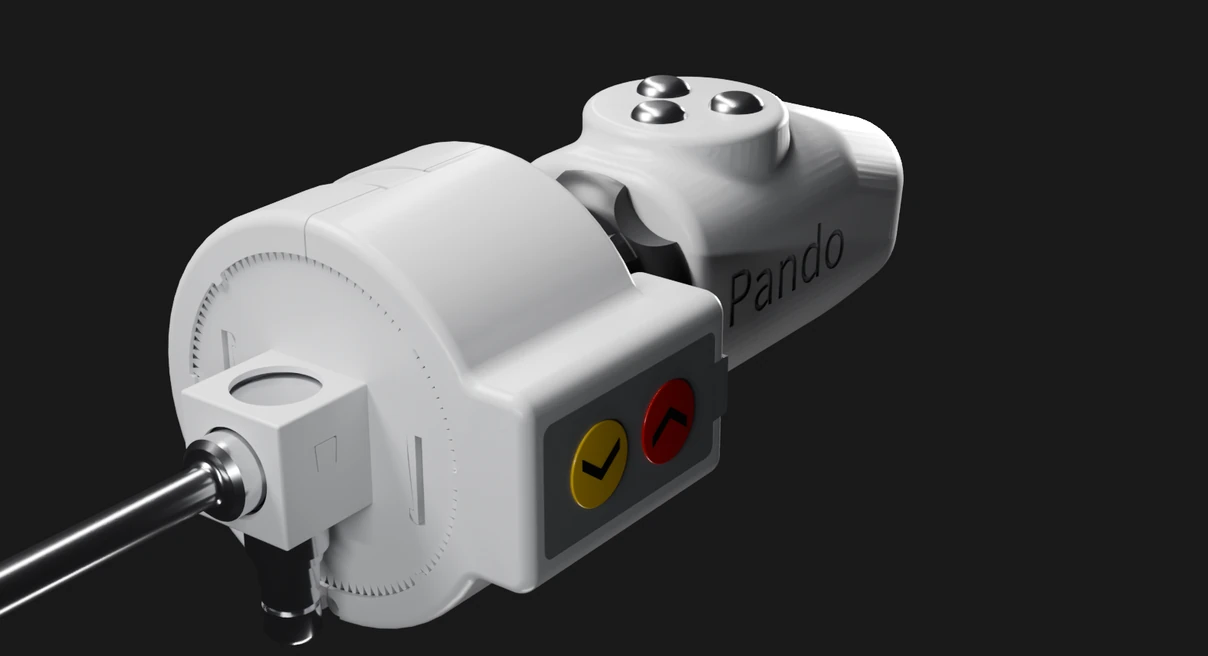
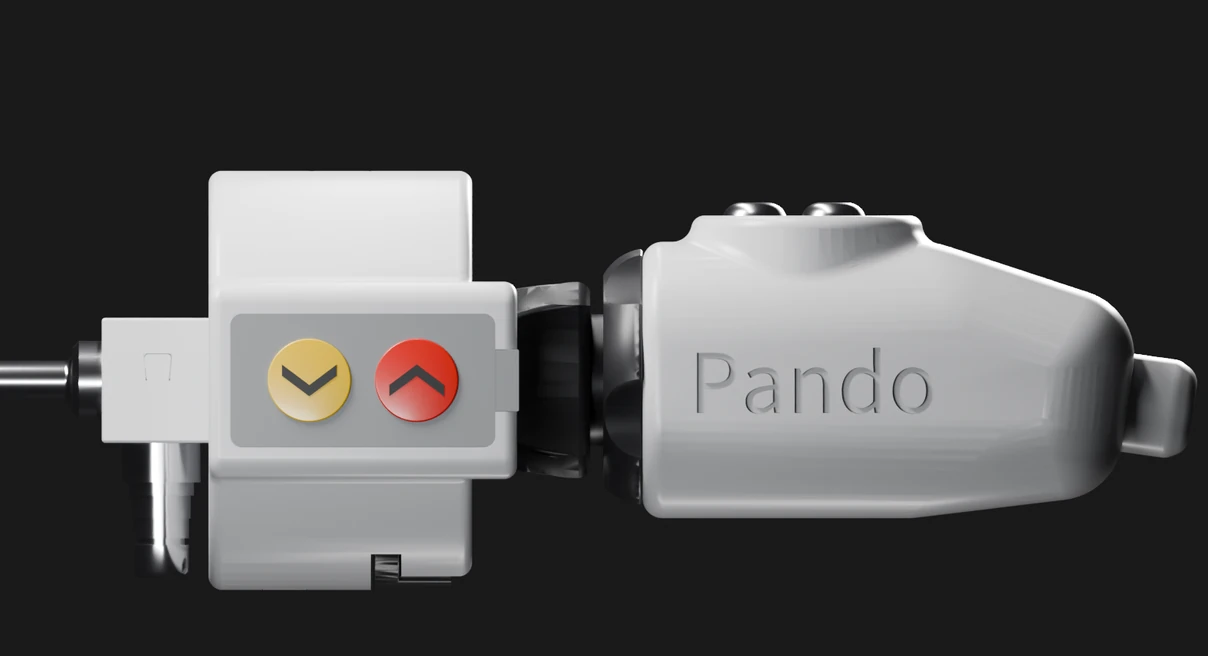
Use the new revB hero render and a swiping 5-image slideshow
Matches the Figma edits: the LapRotator hero (and Hover Drift) now uses
the background-removed revB hero render, placed like Figma (1241x553 at
343,393, no tilt); phones show it above the heading. The Features
slideshow is cut to the five renders and crops chosen in Figma, and now
slides left to the next image every 3.1 s (2.5 s hold, 600ms slide),
looping through a copy of the first image so it never slides back.

diff --git a/css/style.css b/css/style.css
@@ -388,8 +388,9 @@ p { font-weight: 400; }
    starts the float (js/main.js, Figma "LapRotator Hover Drift") */
 /* Full-size layer so the render scales with the whole section width (cqw), not the padded content */
 .lr-art { position: absolute; inset: 0; z-index: 0; pointer-events: none; container-type: inline-size; }
-.lr-float { position: absolute; left: -21.79cqw; bottom: -15.31cqw; width: 124.93cqw; z-index: 0; pointer-events: none; will-change: translate; }
-.lr-float img { display: block; width: 100%; height: auto; rotate: 5.87deg; filter: drop-shadow(5px 17px 19px rgba(0, 0, 0, 0.15)); }
+/* Figma: 1241x553 at x 343, y 393 in the 1512x875 hero, so it runs 71px past the bottom */
+.lr-float { position: absolute; left: 22.69cqw; bottom: -4.7cqw; width: 82.08cqw; z-index: 0; pointer-events: none; will-change: translate; }
+.lr-float img { display: block; width: 100%; height: auto; }
 .lr-hero-text { position: relative; z-index: 1; max-width: 760px; display: flex; flex-direction: column; gap: 20px; align-items: flex-start; }
 .lr-hero h1 { font-size: 80px; line-height: normal; }
 .lr-hero p { font-size: 22px; line-height: 1.5; color: rgba(var(--on-dark-rgb), 0.7); }
@@ -438,14 +439,12 @@ p { font-weight: 400; }
 .features li { display: flex; align-items: center; gap: 16px; font-size: 20px; line-height: 1.45; color: rgba(var(--text-rgb), 0.8); }
 .check { flex: none; width: 40px; height: 40px; border-radius: 50%; background: var(--dark); display: flex; align-items: center; justify-content: center; }
 .check img { display: block; }
-/* Render slideshow (Figma "LapRotator Render Slideshow"): each image shows ~4 s, then dissolves into the next.
-   It takes the height of the feature list beside it. */
+/* Render slideshow (Figma "LapRotator Render Slideshow"): each image shows 2.5 s, then the track
+   slides left to the next (600ms). It takes the height of the feature list beside it. */
 .lr-slides { position: relative; min-height: 0; border-radius: 5px; overflow: hidden; background: #111; }
-.lr-slides img {
-  position: absolute; inset: 0; width: 100%; height: 100%; object-fit: cover;
-  opacity: 0; transition: opacity 800ms ease-in-out;
-}
-.lr-slides img.is-on { opacity: 1; }
+.lr-slides-track { position: absolute; inset: 0; display: flex; transition: transform 600ms ease-in-out; }
+.lr-slides-track.no-anim { transition: none; }
+.lr-slides img { flex: 0 0 100%; width: 100%; height: 100%; object-fit: cover; }
 /* Specifications: compatibility table (Figma "Spec table") */
 .spec-head { font-size: 24px; font-weight: 500; color: var(--accent); margin-bottom: 32px; }
 .spec-intro { font-size: 18px; font-weight: 400; color: rgba(var(--text-rgb), 0.7); margin-bottom: 32px; }
@@ -808,6 +807,8 @@ input::placeholder, textarea::placeholder { color: rgba(46, 49, 53, 0.4); }
   .proof { flex-direction: column; gap: 24px; margin-top: 56px; }
   .grove h2, .story h2, .team-cta h2 { font-size: 38px; }
   .lr-hero { height: auto; min-height: 100svh; padding: 100px var(--pad) 48px; align-items: flex-end; }
+  /* Phones: the render sits larger in the space above the heading, scope trailing off the left */
+  .lr-float { left: -18cqw; top: 104px; bottom: auto; width: 115cqw; }
   .lr-hero h1, .ent h1 { font-size: 52px; }
   .lr-hero p { font-size: 18px; }
   .overview { padding: 80px var(--pad); }

diff --git a/laprotator.html b/laprotator.html
@@ -57,7 +57,7 @@
 <main id="main">
 
 <section class="lr-hero">
-  <div class="lr-art"><div class="lr-float"><img src="assets/img/laprotator-device.webp" alt="LapRotator attached to a laparoscope" width="1889" height="832"></div></div>
+  <div class="lr-art"><div class="lr-float"><img src="assets/img/laprotator-hero-render.webp" alt="LapRotator attached to a laparoscope" width="1920" height="856"></div></div>
   <div class="lr-hero-text">
     <h1>LapRotator</h1>
     <p>One-Handed Laparoscope Rotation: an attachment for laparoscopes that gives surgeons intuitive, single-handed control.</p>
@@ -99,12 +99,13 @@
         <li><span class="check"><img src="assets/icons/icon-check.svg" alt="" width="16" height="16"></span>Designed to help reduce surgeon fatigue during procedures</li>
       </ul>
       <div class="lr-slides" role="group" aria-label="LapRotator renders, changing every few seconds">
-        <img src="assets/img/laprotator-render-1.webp" alt="LapRotator on a laparoscope, three-quarter view with the camera buttons on top" width="1208" height="656" loading="lazy" class="is-on">
-        <img src="assets/img/laprotator-render-2.webp" alt="LapRotator from the front, showing the drum and the yellow and red rotation keys" width="1208" height="656" loading="lazy">
-        <img src="assets/img/laprotator-render-3.webp" alt="LapRotator from above, showing the three camera buttons" width="1208" height="656" loading="lazy">
-        <img src="assets/img/laprotator-render-4.webp" alt="LapRotator in side profile, with the rotation keys and the Pando logo" width="1208" height="656" loading="lazy">
-        <img src="assets/img/laprotator-render-5.webp" alt="LapRotator from below, looking up at the rotation keys" width="1208" height="656" loading="lazy">
-        <img src="assets/img/laprotator-render-6.webp" alt="LapRotator from the rear, showing the camera handle" width="1208" height="656" loading="lazy">
+        <div class="lr-slides-track">
+          <img src="assets/img/laprotator-render-1.webp" alt="LapRotator on a laparoscope, three-quarter view with the camera buttons on top" width="1208" height="656" decoding="async">
+          <img src="assets/img/laprotator-render-2.webp" alt="LapRotator in side profile, with the rotation keys and the Pando logo" width="1208" height="656" decoding="async">
+          <img src="assets/img/laprotator-render-3.webp" alt="LapRotator from above, showing the three camera buttons" width="1208" height="656" decoding="async">
+          <img src="assets/img/laprotator-render-4.webp" alt="LapRotator from below, looking up at the rotation keys" width="1208" height="656" decoding="async">
+          <img src="assets/img/laprotator-render-5.webp" alt="LapRotator from the rear, showing the camera handle" width="1208" height="656" decoding="async">
+        </div>
       </div>
     </div>
   </div>

diff --git a/js/main.js b/js/main.js
@@ -205,20 +205,34 @@
   });
 
   /* ---------- LapRotator render slideshow ----------
-     Each render shows ~4 s, then the CSS fades it into the next (Figma "LapRotator Render Slideshow").
+     Each render shows 2.5 s, then the track slides left to the next in 600ms (Figma "LapRotator Render Slideshow").
+     A copy of the first render at the end lets it loop without sliding back across all of them.
      Runs only while on screen and the page is visible; with reduced motion it stays on the first image. */
   document.querySelectorAll(".lr-slides").forEach(function (box) {
-    var slides = box.querySelectorAll("img");
-    if (slides.length < 2 || reduceMotion || !("IntersectionObserver" in window)) return;
+    var track = box.querySelector(".lr-slides-track");
+    var count = track ? track.children.length : 0;
+    if (count < 2 || reduceMotion || !("IntersectionObserver" in window)) return;
+    var copy = track.children[0].cloneNode();
+    copy.alt = ""; copy.setAttribute("aria-hidden", "true");
+    track.appendChild(copy);
     var i = 0, timer = 0, onScreen = false;
+    function show(n, animate) {
+      track.classList.toggle("no-anim", !animate);
+      track.style.transform = "translateX(" + (-100 * n) + "%)";
+    }
+    function rewind() { // on the copy: jump back to the real first render, which looks the same
+      if (i < count) return;
+      i = 0; show(0, false);
+      void track.offsetWidth;
+    }
+    track.addEventListener("transitionend", rewind);
     function next() {
-      slides[i].classList.remove("is-on");
-      i = (i + 1) % slides.length;
-      slides[i].classList.add("is-on");
+      rewind();
+      i += 1; show(i, true);
     }
     function sync() {
       var run = onScreen && !document.hidden;
-      if (run && !timer) timer = setInterval(next, 4800);
+      if (run && !timer) timer = setInterval(next, 3100);
       if (!run && timer) { clearInterval(timer); timer = 0; }
     }
     new IntersectionObserver(function (entries) {

diff --git a/tools/build.py b/tools/build.py
@@ -323,18 +323,16 @@ SPECS = [
     ("Camera coupler", "Stryker 1488 HD Camera Head Coupler, 18 mm (P/N 1488-020-122)"),
 ]
 FEATURE_ITEMS = "\n".join(f'        <li><span class="check"><img src="assets/icons/icon-check.svg" alt="" width="16" height="16"></span>{f}</li>' for f in FEATURES)
-# Figma "LapRotator Render Slideshow": revB renders that swap automatically (js/main.js), cropped to 604x328
-RENDERS = [
+# Figma "LapRotator Render Slideshow": revB renders that swap automatically (js/main.js), cropped like its variants
+RENDERS = [  # Figma variants: Default, Profile, Top, Low, 3/4
     "LapRotator on a laparoscope, three-quarter view with the camera buttons on top",
-    "LapRotator from the front, showing the drum and the yellow and red rotation keys",
-    "LapRotator from above, showing the three camera buttons",
     "LapRotator in side profile, with the rotation keys and the Pando logo",
+    "LapRotator from above, showing the three camera buttons",
     "LapRotator from below, looking up at the rotation keys",
     "LapRotator from the rear, showing the camera handle",
 ]
-ON = ' class="is-on"'  # the first render shows before the script runs
 RENDER_SLIDES = "\n".join(
-    f'        <img src="assets/img/laprotator-render-{i}.webp" alt="{alt}" width="1208" height="656" loading="lazy"{ON if i == 1 else ""}>'
+    f'          <img src="assets/img/laprotator-render-{i}.webp" alt="{alt}" width="1208" height="656" decoding="async">'
     for i, alt in enumerate(RENDERS, 1))
 # Keep each part number on one line, so phones never break it at a hyphen
 def _pn(text):
@@ -342,7 +340,7 @@ def _pn(text):
 SPEC_ROWS = "\n".join(f'      <div class="spec-row"><dt>{k}</dt><dd>{_pn(v)}</dd></div>' for k, v in SPECS)
 page("laprotator.html", "LapRotator", "LapRotator: an attachment for laparoscopes that gives surgeons intuitive, single-handed scope rotation.", "laprotator", f"""
 <section class="lr-hero">
-  <div class="lr-art"><div class="lr-float"><img src="assets/img/laprotator-device.webp" alt="LapRotator attached to a laparoscope" width="1889" height="832"></div></div>
+  <div class="lr-art"><div class="lr-float"><img src="assets/img/laprotator-hero-render.webp" alt="LapRotator attached to a laparoscope" width="1920" height="856"></div></div>
   <div class="lr-hero-text">
     <h1>LapRotator</h1>
     <p>One-Handed Laparoscope Rotation: an attachment for laparoscopes that gives surgeons intuitive, single-handed control.</p>
@@ -380,7 +378,9 @@ page("laprotator.html", "LapRotator", "LapRotator: an attachment for laparoscope
 {FEATURE_ITEMS}
       </ul>
       <div class="lr-slides" role="group" aria-label="LapRotator renders, changing every few seconds">
+        <div class="lr-slides-track">
 {RENDER_SLIDES}
+        </div>
       </div>
     </div>
   </div>

diff --git a/CLAUDE.md b/CLAUDE.md
@@ -29,7 +29,7 @@ Live at https://n7na27.github.io/PandoWebsite/ (GitHub Pages, deploys from `main
 - **Motion:**
   - Reveal on scroll: add class `reveal` (fades up 16px, 600ms). Images use the same entrance as the text beside them.
   - Soft easing: `var(--ease-soft)`.
-  - Auto-swapping images: `.lr-slides` (LapRotator Features tab) fades to the next image every 4.8 s while on screen. Figma "LapRotator Render Slideshow" shows the same with After delay variants.
+  - Auto-swiping images: `.lr-slides` (LapRotator Features tab) slides left to the next image every 3.1 s (2.5 s hold, 600ms slide) while on screen. Figma "LapRotator Render Slideshow" does the same with a filmstrip in each variant and Smart Animate.
   - Respect `prefers-reduced-motion`. The global rule in `style.css` covers CSS. Pause autoplaying video in JS.
 - **Hover states:**
   - Team cards rise 6px and show a soft shadow. No border, no photo zoom.
